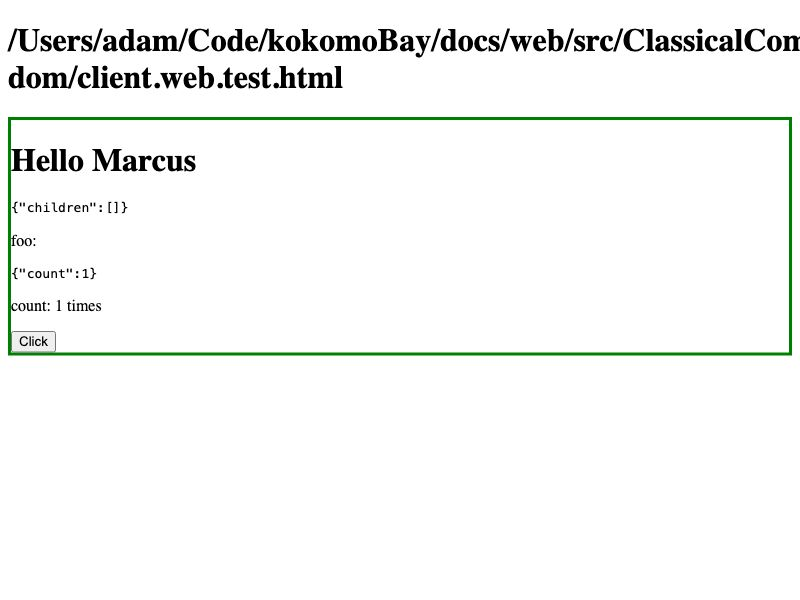
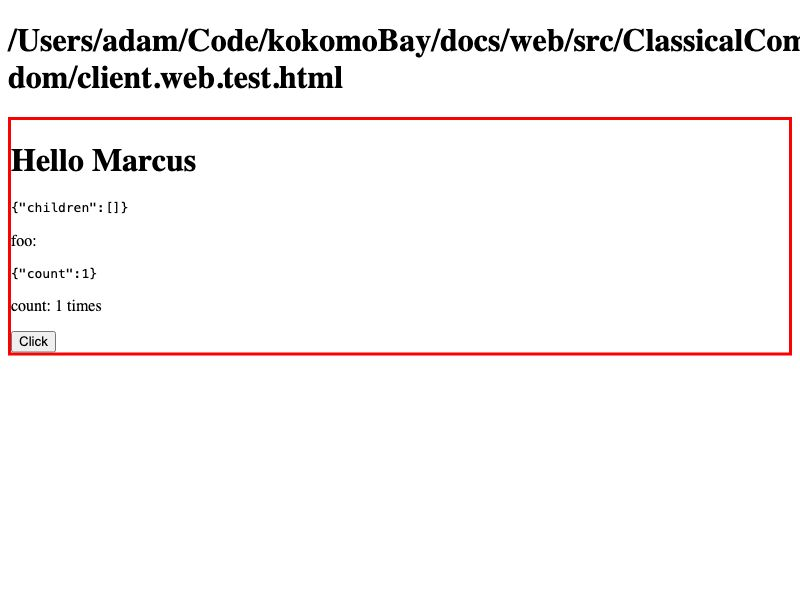
green to red border

Changed region(s): [[0.0, 0.18, 1.0, 0.6]]

diff --git a/src/ClassicalComponent/index.tsx b/src/ClassicalComponent/index.tsx
@@ -14,7 +14,7 @@ export class ClassicalComponent extends React.Component<IProps, IState> {
 
   render() {
     return (
-      <div style={{ border: '3px solid green' }}>
+      <div style={{ border: '3px solid red' }}>
         <h1 id="theHeader">Hello Marcus</h1>
         <pre id="theProps">{JSON.stringify(this.props)}</pre>
         <p>foo: {this.props.foo}</p>
